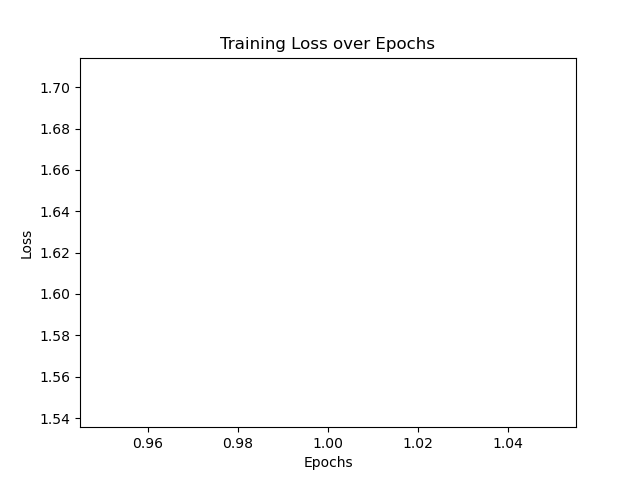
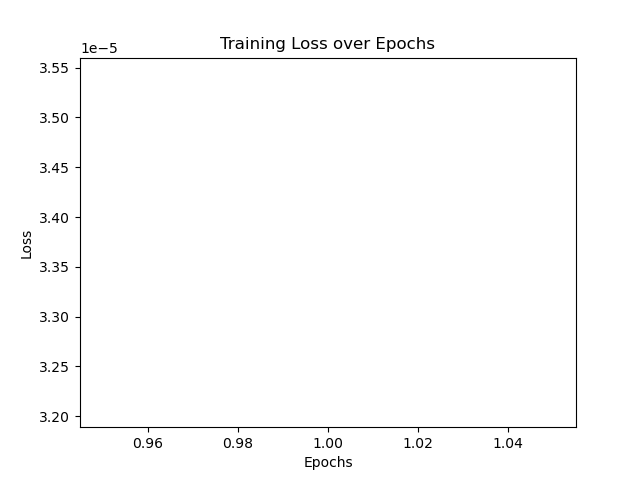
Fixed predict

diff --git a/main.py b/main.py
@@ -35,10 +35,10 @@ def main():
 
     if args.dataset == 'fill50k':
         from test_imgs import fill50k
-        train_dataset, test_dataset = fill50k.get_dataset(args.batch_size, args.img_size)
+        train_dataset, test_dataset, dataset_length = fill50k.get_dataset(args.batch_size, args.img_size)
     else:
         from test_imgs import facesynthetics
-        train_dataset, test_dataset = facesynthetics.get_dataset(batch_size=args.batch_size, img_size=args.img_size)
+        train_dataset, test_dataset, dataset_length = facesynthetics.get_dataset(batch_size=args.batch_size, img_size=args.img_size)
 
     model = ControlSDB(optimizer=tf.keras.optimizers.Adam(learning_rate=args.lr), img_height=args.img_size, img_width=args.img_size)
 
@@ -80,11 +80,11 @@ def main():
 
     for epoch in range(args.epochs):
         epoch_loss = 0
-        for batch in train_dataset:
+        for batch in train_dataset.take(1):
             loss = model.train_step(batch)
             epoch_loss += loss['loss']
             print(f"Epoch {epoch+1}/{args.epochs}, Batch Loss: {loss['loss']:.6f}")
-        avg_epoch_loss = epoch_loss / len(train_dataset)
+        avg_epoch_loss = epoch_loss / dataset_length
         losses.append(avg_epoch_loss)
         print(f"Epoch {epoch+1}/{args.epochs}, Loss: {avg_epoch_loss:.6f}")
         
@@ -116,32 +116,39 @@ def main():
 
     print("----------Image Saved----------")
 
-    # captions = [data['txt'] for data in test_dataset]
-    # captions = []
-    # for batch in test_dataset:
-    #     captions.extend(batch['txt'].numpy().tolist())
-    # captions = [c.decode('utf-8') if isinstance(c, bytes) else c for c in captions]
-    # generated_images_sd = []
-    # stable_diffusion = keras_cv.models.StableDiffusion(img_width=args.img_size, img_height=args.img_size)
+    captions = [data['txt'] for data in test_dataset]
+    captions = []
+    for batch in test_dataset:
+        captions.extend(batch['txt'].numpy().tolist())
+    captions = [c.decode('utf-8') if isinstance(c, bytes) else c for c in captions]
+    generated_images_sd = []
+    stable_diffusion = keras_cv.models.StableDiffusion(img_width=args.img_size, img_height=args.img_size)
 
-    # for caption in captions:
-    #     generated_images_sd.append(stable_diffusion.text_to_image(caption, batch_size=args.batch_size))
+    for caption in captions:
+        generated_images_sd.append(stable_diffusion.text_to_image(caption, batch_size=args.batch_size))
+
+    generated_images_controlnet = []
+    for batch in test_dataset.take(1):
+        image = model.predict(batch)
+        generated_images_controlnet.append(image)
+    generated_images_controlnet = model.predict(test_dataset)
+    # print(generated_images_controlnet)
 
     # save_images(generated_images_sd, save_dir="outputs/sd", prefix="sd")
-    save_images(generated_images_controlnet, save_dir="outputs/controlnet", prefix="controlnet")
+    # save_images(generated_images_controlnet, save_dir="outputs/controlnet", prefix="controlnet")
 
-    # clip_score_sd = calculate_clip_score(generated_images_sd, captions)
-    # clip_score_controlnet = calculate_clip_score(generated_images_controlnet, captions)
-    # print("CLIP Score:")
-    # print("Stable Diffusion: " + str(clip_score_sd))
-    # print("Control Net: " + str(clip_score_controlnet))
+    clip_score_sd = calculate_clip_score(generated_images_sd, captions)
+    clip_score_controlnet = calculate_clip_score(generated_images_controlnet, captions)
+    print("CLIP Score:")
+    print("Stable Diffusion: " + str(clip_score_sd))
+    print("Control Net: " + str(clip_score_controlnet))
 
-    # real_images = [data['jpg'] for data in test_dataset]
-    # fid_score_sd = calculate_fid_score(real_images, generated_images_sd)
-    # fid_score_controlnet = calculate_fid_score(real_images, generated_images_controlnet)
-    # print("FID Score:")
-    # print("Stable Diffusion: " + str(fid_score_sd))
-    # print("Control Net: " + str(fid_score_controlnet))
+    real_images = [data['jpg'] for data in test_dataset]
+    fid_score_sd = calculate_fid_score(real_images, generated_images_sd)
+    fid_score_controlnet = calculate_fid_score(real_images, generated_images_controlnet)
+    print("FID Score:")
+    print("Stable Diffusion: " + str(fid_score_sd))
+    print("Control Net: " + str(fid_score_controlnet))
 
 def resize_images(images, target_size=(299, 299)):
     images = tf.convert_to_tensor(images, dtype=tf.float32)
@@ -214,6 +221,19 @@ def save_images(images, save_dir, prefix="img"):
     for i, img in enumerate(images):
         if isinstance(img, tf.Tensor):
             img = img.numpy()
+        if len(img.shape) == 4:
+            img = np.squeeze(img)
+        if img.dtype == np.float32:
+            if img.min() < 0 or img.max() > 1:
+                img = (img + 1) * 127.5
+            else:
+                img = img * 255
+            img = img.astype(np.uint8)
+        
+        if len(img.shape) == 2:
+            img = np.expand_dims(img, axis=-1)
+            img = np.repeat(img, 3, axis=-1)
+
         img_pil = Image.fromarray(img)
         img_pil.save(os.path.join(save_dir, f"{prefix}_{i}.png"))
 

diff --git a/cldm/cldm.py b/cldm/cldm.py
@@ -393,27 +393,44 @@ class ControlSDB(keras_cv.models.StableDiffusion):
     def predict(self, inputs, num_inference_steps=50):
         latents, encoded_text, control = self.get_input(inputs)
         batch_size = tf.shape(latents)[0]
-        
-        noisy_latents = tf.random.normal(shape=tf.shape(latents), dtype=latents.dtype)
 
-        for step in range(num_inference_steps):
-            timestep = tf.fill([batch_size], self.noise_scheduler.inference_timesteps[step])
-            timestep_emb = timestep_embedding(timestep)
-            
+        timesteps = tf.range(1, num_inference_steps + 1)
+        timesteps = tf.reverse(timesteps, axis=[0])
+        
+        noise = tf.random.normal(shape=tf.shape(latents), dtype=latents.dtype)
+        latents = self.noise_scheduler.add_noise(latents, noise, timesteps[0])
+
+        for i, t in enumerate(timesteps):
+            t_embed = timestep_embedding(tf.repeat(t, batch_size))
+
             if isinstance(encoded_text, list):
                 encoded_text = tf.stack(tf.squeeze(encoded_text, axis=1), axis=0)
             else:
                 encoded_text = tf.convert_to_tensor(encoded_text)
+            
+            control_output = self.control_model([encoded_text, t_embed, latents, control])
+            control_output = [c * scale for c, scale in zip(control_output, self.control_scales)]
+            
+            noise_pred = self.diffuser([encoded_text, t_embed, latents, control_output])
+        
+            prev_timestep = t - (self.noise_scheduler.train_timesteps // num_inference_steps)
+            alpha_prod_t = self.noise_scheduler.alphas_cumprod[t]
+            alpha_prod_t_prev = self.noise_scheduler.alphas_cumprod[prev_timestep] if prev_timestep >= 0 else 1.0
+            beta_prod_t = 1 - alpha_prod_t
+            beta_prod_t_prev = 1 - alpha_prod_t_prev
 
-            control = self.control_model([encoded_text, timestep_emb, noisy_latents, control])
-            control = [c * scale for c, scale in zip(control, self.control_scales)]
+            pred_original_sample = (latents - beta_prod_t ** 0.5 * noise_pred) / alpha_prod_t ** 0.5
+            pred_original_sample = tf.clip_by_value(pred_original_sample, -1, 1)
 
-            pred_noise = self.diffuser([encoded_text, timestep_emb, noisy_latents, control])
+            variance = (beta_prod_t_prev / beta_prod_t) * (1 - alpha_prod_t / alpha_prod_t_prev)
+            std_dev_t = variance ** 0.5
 
-            noisy_latents = self.noise_scheduler.step(pred_noise, timestep, noisy_latents)
+            noise = tf.random.normal(tf.shape(latents), dtype=latents.dtype)
+            latents = alpha_prod_t_prev ** 0.5 * pred_original_sample + std_dev_t * noise
+    
+        images = self.decoder(latents)
+        return images
 
-        decoded = self.vae.decoder(noisy_latents)
-        return decoded
 
     def get_input(self, inputs):
         # TODO: should images be rearranged? from (b h w c) to (b c h w)?

diff --git a/test_imgs/facesynthetics.py b/test_imgs/facesynthetics.py
@@ -53,8 +53,9 @@ def get_dataset(batch_size=8, img_size=256):
     # print(f"Preprocessing completed.")
 
     train_data = train_data.shuffle(1000).batch(batch_size).prefetch(tf.data.AUTOTUNE)
+    test_data = test_data.batch(batch_size)
 
-    return train_data, test_data
+    return train_data, test_data, dataset_length
 
 # Usage example
 # dataset = get_dataset()

diff --git a/test_imgs/fill50k.py b/test_imgs/fill50k.py
@@ -60,5 +60,6 @@ def get_dataset(batch_size, img_size):
     test_dataset = dataset.skip(train_size)
 
     train_dataset = train_dataset.shuffle(1000).batch(batch_size).prefetch(tf.data.AUTOTUNE)
+    test_dataset = test_dataset.batch(batch_size)
 
-    return train_dataset, test_dataset
+    return train_dataset, test_dataset, dataset_length
